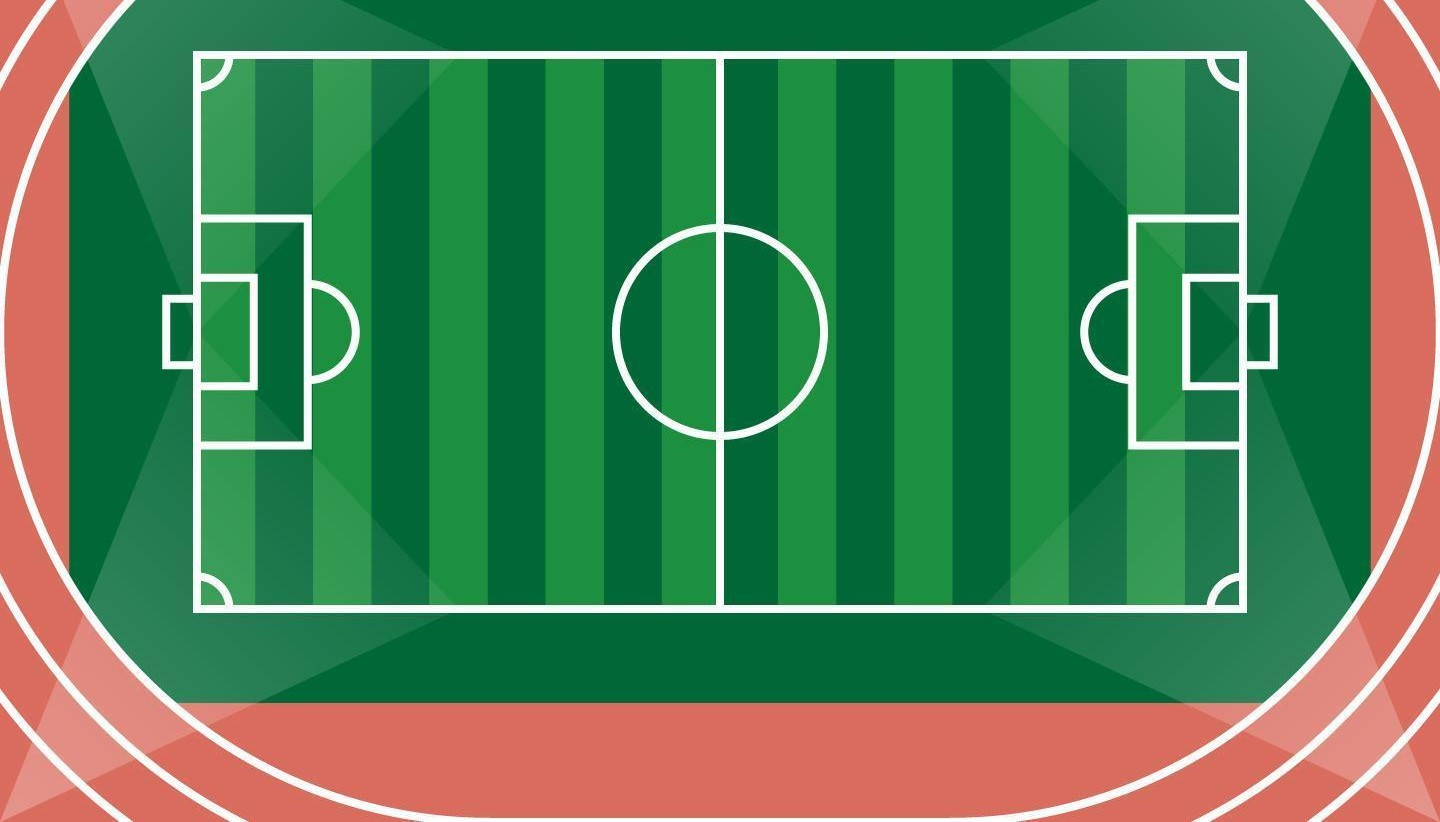
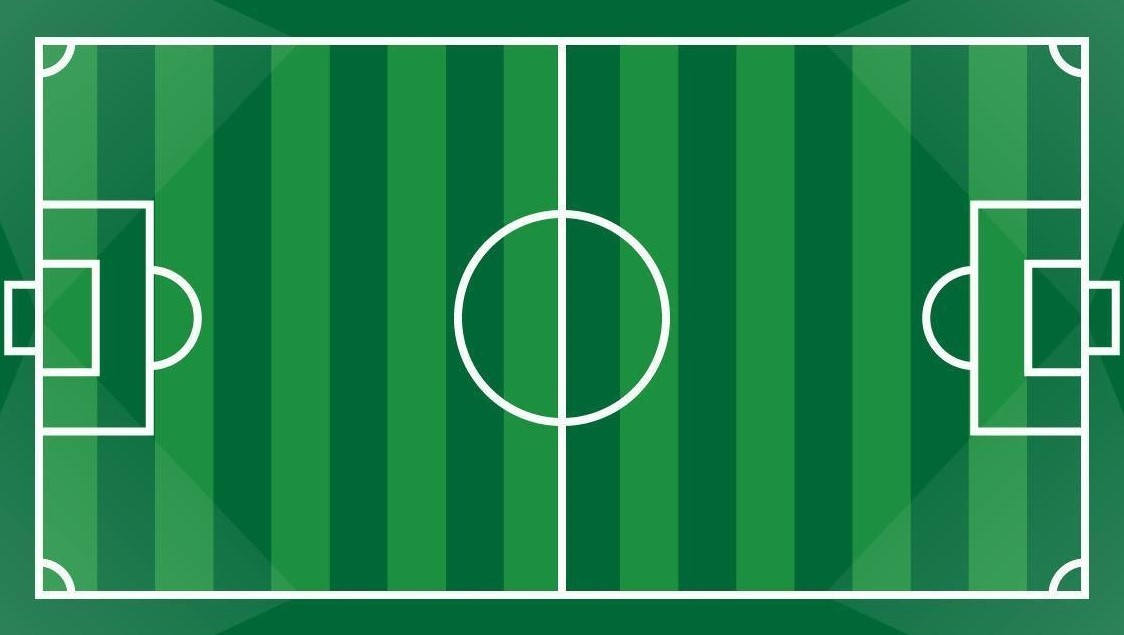
add teams with differnet players

diff --git a/src/components/Teams.vue b/src/components/Teams.vue
@@ -1,124 +1,96 @@
 <script setup>
 const AwayPositionsList = [
-    {
-        position: 'GL',
-        class: 'col-span-1 col-start-5 row-start-10 md:col-span-1 md:col-start-8 md:row-start-6',
-        number: 1,
-        color: 'bg-gradient-to-br from-blue-700 to-blue-900 border-blue-950',
-        name: 'William'
-    },
-    {
-        position: 'ZE',
-        class: 'col-span-1 col-start-3 row-start-9 md:col-span-1 md:col-start-7 md:row-start-7',
-        number: 4,
-        color: 'bg-gradient-to-br from-blue-700 to-blue-900 border-blue-950',
-        name: 'Lucas'
-    },
-    {
-        position: 'ZD',
-        class: 'col-span-1 col-start-7 row-start-9 md:col-span-1 md:col-start-7 md:row-start-4',
-        number: 3,
-        color: 'bg-gradient-to-br from-blue-700 to-blue-900 border-blue-950',
-        name: 'Valdemar'
-    },
-    {
-        position: 'VOL',
-        class: 'col-span-1 col-start-5 row-start-8 md:col-span-1 md:col-start-7 md:row-start-6',
-        number: 5,
-        color: 'bg-gradient-to-br from-blue-700 to-blue-900 border-blue-950',
-        name: 'Eduardo'
-    },
-    {
-        position: 'ME',
-        class: 'col-span-1 col-start-1 row-start-7 md:col-span-1 md:col-start-6 md:row-start-3',
-        number: 10,
-        color: 'bg-gradient-to-br from-blue-700 to-blue-900 border-blue-950',
-        name: 'Macarrão'
-    },
-    {
-        position: 'MD',
-        class: 'col-span-1 col-start-9 row-start-7 md:col-span-1 md:col-start-6 md:row-start-9',
-        number: 11,
-        color: 'bg-gradient-to-br from-blue-700 to-blue-900 border-blue-950',
-        name: 'Maicão'
-    },
-    {
-        position: 'ATA',
-        class: 'col-span-1 col-start-5 row-start-6 md:col-span-1 md:col-start-6 md:row-start-6',
-        number: 9,
-        color: 'bg-gradient-to-br from-blue-700 to-blue-900 border-blue-950',
-        name: 'Jorge'
-    },
-]
+  {
+    position: "GK",
+    class: "col-span-1 col-start-5 row-start-10 md:col-span-1 md:col-start-11 md:row-start-3",
+    color: "bg-gradient-to-br from-blue-700 to-blue-900 border-blue-950",
+    name: "Carlos",
+  },
+  {
+    position: "ZE",
+    class: "col-span-1 col-start-3 row-start-9 md:col-span-1 md:col-start-10 md:row-start-4",
+    color: "bg-gradient-to-br from-blue-700 to-blue-900 border-blue-950",
+    name: "Matheus",
+  },
+  {
+    position: "ZD",
+    class: "col-span-1 col-start-7 row-start-9 md:col-span-1 md:col-start-10 md:row-start-2",
+    color: "bg-gradient-to-br from-blue-700 to-blue-900 border-blue-950",
+    name: "Valdemar",
+  },
+  {
+    position: "ME",
+    class: "col-span-1 col-start-1 row-start-7 md:col-span-1 md:col-start-8 md:row-start-2",
+    color: "bg-gradient-to-br from-blue-700 to-blue-900 border-blue-950",
+    name: "Jorge",
+  },
+  {
+    position: "MD",
+    class: "col-span-1 col-start-9 row-start-7 md:col-span-1 md:col-start-8 md:row-start-4",
+    color: "bg-gradient-to-br from-blue-700 to-blue-900 border-blue-950",
+    name: "Luan",
+  },
+  {
+    position: "ATA",
+    class: "col-span-1 col-start-5 row-start-6 md:col-span-1 md:col-start-7 md:row-start-3",
+    color: "bg-gradient-to-br from-blue-700 to-blue-900 border-blue-950",
+    name: "Enrique",
+  },
+];
 const HomePositionsList = [
-    {
-        position: 'GL',
-        class: 'col-span-1 col-start-5 row-start-1 md:col-span-1 md:col-start-2 md:row-start-6',
-        color: 'bg-gradient-to-br from-gray-700 to-gray-900 border-gray-950',
-        number: 1,
-        name: 'Murilo'
-    },
-    {
-        position: 'ZC',
-        class: 'col-span-1 col-start-5 row-start-2 md:col-span-1 md:col-start-3 md:row-start-6',
-        color: 'bg-gradient-to-br from-gray-700 to-gray-900 border-gray-950',
-        number: 4,
-        name: 'Ivan'
-    },
-    {
-        position: 'ALA',
-        class: 'col-span-1 col-start-3 row-start-3 md:col-span-1 md:col-start-3 md:row-start-8',
-        color: 'bg-gradient-to-br from-gray-700 to-gray-900 border-gray-950',
-        number: 11,
-        name: 'Matheus'
-    },
-    {
-        position: 'ALA',
-        class: 'col-span-1 col-start-7 row-start-3 md:col-span-1 md:col-start-3 md:row-start-3',
-        color: 'bg-gradient-to-br from-gray-700 to-gray-900 border-gray-950',
-        number: 3,
-        name: 'Digão'
-    },
-    {
-        position: 'ME',
-        class: 'col-span-1 col-start-8 row-start-4 md:col-span-1 md:col-start-4 md:row-start-4',
-        color: 'bg-gradient-to-br from-gray-700 to-gray-900 border-gray-950',
-        number: 5,
-        name: 'Zinho'
-    },
-    {
-        position: 'MD',
-        class: 'col-span-1 col-start-2 row-start-4 md:col-span-1 md:col-start-4 md:row-start-7',
-        color: 'bg-gradient-to-br from-gray-700 to-gray-900 border-gray-950',
-        number: 10,
-        name: 'Gustavinho'
-    },
-    {
-        position: 'ATA',
-        class: 'col-span-1 col-start-5 row-start-5 md:col-span-1 md:col-start-5 md:row-start-6',
-        color: 'bg-gradient-to-br from-gray-700 to-gray-900 border-gray-950',
-        number: 9,
-        name: 'Enrique'
-    },
-]
+  {
+    position: "GL",
+    class: "col-span-1 col-start-5 row-start-1 md:col-span-1 md:col-start-1 md:row-start-3",
+    color: "bg-gradient-to-br from-gray-700 to-gray-900 border-gray-950",
+    name: "William",
+  },
+  {
+    position: "ZC",
+    class: "col-span-1 col-start-5 row-start-2 md:col-span-1 md:col-start-2 md:row-start-3",
+    color: "bg-gradient-to-br from-gray-700 to-gray-900 border-gray-950",
+    name: "Ivan",
+  },
+  {
+    position: "ALA",
+    class: "col-span-1 col-start-3 row-start-3 md:col-span-1 md:col-start-3 md:row-start-2",
+    color: "bg-gradient-to-br from-gray-700 to-gray-900 border-gray-950",
+    name: "Lucas",
+  },
+  {
+    position: "ALA",
+    class: "col-span-1 col-start-7 row-start-3 md:col-span-1 md:col-start-3 md:row-start-4",
+    color: "bg-gradient-to-br from-gray-700 to-gray-900 border-gray-950",
+    name: "Digão",
+  },
+  {
+    position: "ME",
+    class: "col-span-1 col-start-8 row-start-4 md:col-span-1 md:col-start-4 md:row-start-1",
+    color: "bg-gradient-to-br from-gray-700 to-gray-900 border-gray-950",
+    name: "William",
+  },
+  {
+    position: "MD",
+    class: "col-span-1 col-start-2 row-start-4 md:col-span-1 md:col-start-4 md:row-start-5",
+    color: "bg-gradient-to-br from-gray-700 to-gray-900 border-gray-950",
+    name: "Macarrão",
+  },
+  {
+    position: "ATA",
+    class: "col-span-1 col-start-5 row-start-5 md:col-span-1 md:col-start-5 md:row-start-3",
+    color: "bg-gradient-to-br from-gray-700 to-gray-900 border-gray-950",
+    name: "Maicão",
+  },
+];
 </script>
 <template>
-    <ul class="grid w-full h-[82vh] grid-cols-9 gap-1 grid-rows-10">
-        <li v-for="pos in HomePositionsList" :class="pos.class"
-            class="flex flex-col items-center justify-center w-full h-full gap-1 text-gray-100 ">
-            <span class="p-1 text-sm rounded-full" :class="pos.color">{{ pos.name }}</span>
-            <div class="flex flex-col items-center p-1 border-2 rounded-full w-fit" :class="pos.color">
-                <span class="text-xs font-semibold">{{ pos.position }} </span>
-                <span>({{ pos.number }})</span>
-            </div>
-        </li>
-        <li v-for="pos in AwayPositionsList" :class="pos.class"
-            class="flex flex-col items-center justify-center w-full h-full gap-1 text-gray-100 ">
-            <span class="p-1 text-sm rounded-full" :class="pos.color">{{ pos.name }}</span>
-            <div class="flex flex-col items-center p-1 border-2 rounded-full w-fit" :class="pos.color">
-                <span class="text-xs font-semibold">{{ pos.position }} </span>
-                <span>({{ pos.number }})</span>
-            </div>
-        </li>
-    </ul>
+  <ul class="z-50 grid w-full h-[90vh] grid-cols-11 grid-rows-5 gap-4 p-4">
+    <li v-for="player in HomePositionsList" :class="player.class, player.color" class="flex flex-col items-center justify-center gap-1 p-2 text-gray-100 rounded-full">
+      <span class="">{{ player.name }}</span>
+      <span class="">{{ player.position }} </span>
+    </li>
+    <li v-for="player in AwayPositionsList" :class="player.class, player.color" class="flex flex-col items-center justify-center gap-1 text-gray-100">
+      <span class="">{{ player.name }}</span>
+      <span class="">{{ player.position }} </span>
+    </li>
+  </ul>
 </template>

diff --git a/src/components/Menu.vue b/src/components/Menu.vue
@@ -2,7 +2,7 @@
 import { HomeIcon, PresentationChartBarIcon, UserGroupIcon, UserIcon, WrenchScrewdriverIcon, } from '@heroicons/vue/24/outline'
 </script>
 <template>
-  <nav class="fixed bottom-4">
+  <!-- <nav class="fixed bottom-4">
     <div class="flex gap-10 p-4 bg-white rounded-full shadow-lg backdrop-blur-sm bg-opacity-30 dark:bg-gray-950">
       <a href="">
         <PresentationChartBarIcon class="w-10 duration-300 ease-in-out hover:-translate-y-1 dark:stroke-gray-100 stroke-gray-950 hover:scale-110" />
@@ -20,5 +20,5 @@ import { HomeIcon, PresentationChartBarIcon, UserGroupIcon, UserIcon, WrenchScre
         <WrenchScrewdriverIcon class="w-10 duration-300 ease-in-out hover:-translate-y-1 dark:stroke-gray-100 stroke-gray-950 hover:scale-110" />
       </a>
     </div>
-  </nav>
+  </nav> -->
 </template>

diff --git a/src/components/Field.vue b/src/components/Field.vue
@@ -1,9 +1,11 @@
 <script setup>
+import field from '../assets/field-soccer.jpg'
 import Teams from './Teams.vue';
 
 </script>
 <template>
-    <div class="flex w-full min-h-screen p-8 bg-top bg-cover bg-soccer-rotate sm:bg-soccer">
+    <div class="flex w-full h-full mt-10">
+        <img :src="field" alt="" class="fixed top-0 left-0 z-0 w-full h-full">
         <Teams />
     </div>
 </template>
